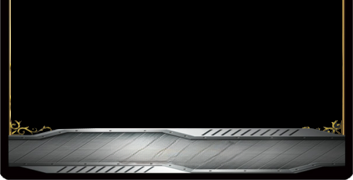
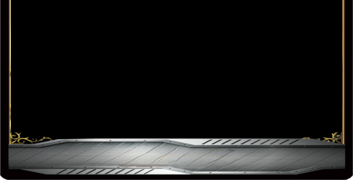
Squeeze the title box even more

Changed region(s): [[0.0, 0.6667, 0.9972, 0.9722], [0.966, 0.9444, 1.0, 1.0], [0.0, 0.9722, 0.0312, 1.0]]

diff --git a/src/pasteup.rb b/src/pasteup.rb
@@ -12,7 +12,7 @@ characters['cards'].each do |card|
   (0..2).each do |i|
     names.push(card[i]["name"])
     quotes.push('"' + card[i]["quote"] + '"')
-    effects.push(card[i]["effect"])
+    effects.push(card[i]["effect"].strip)
   end
 end
 
